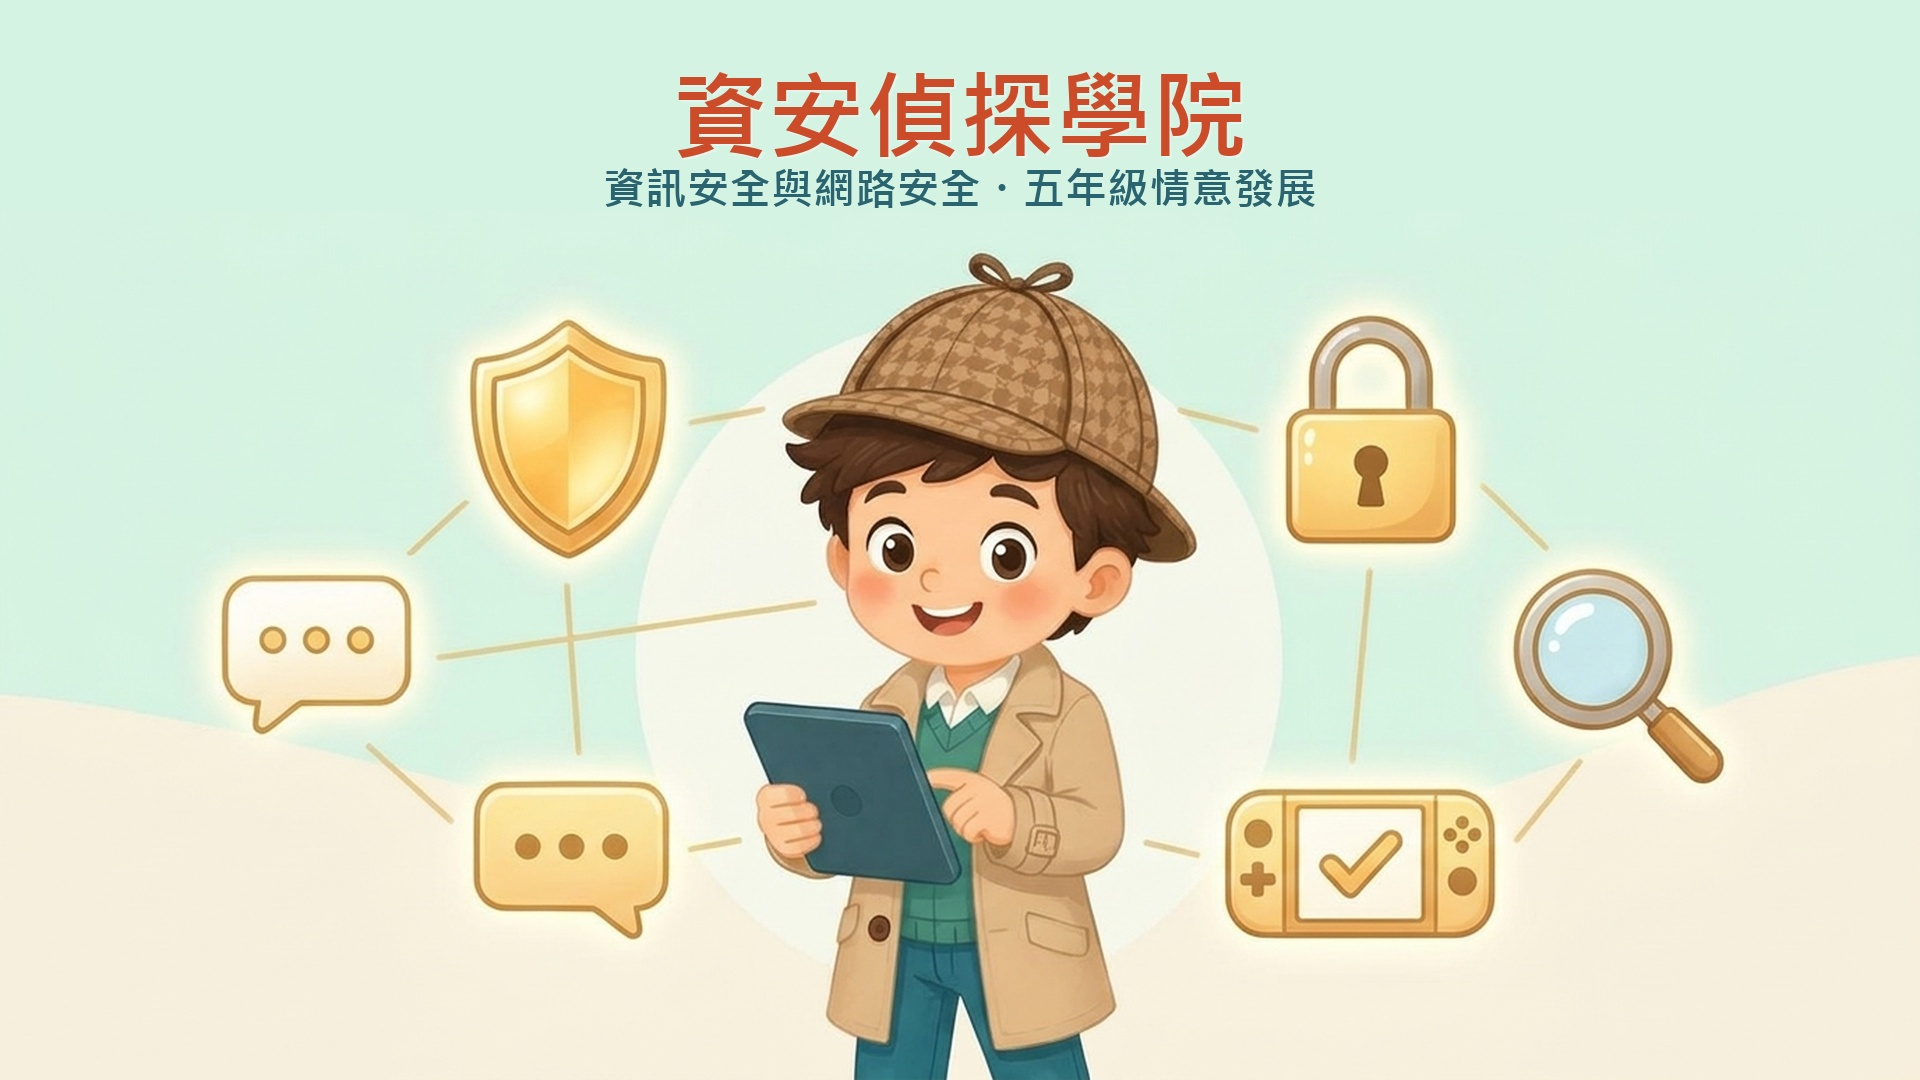
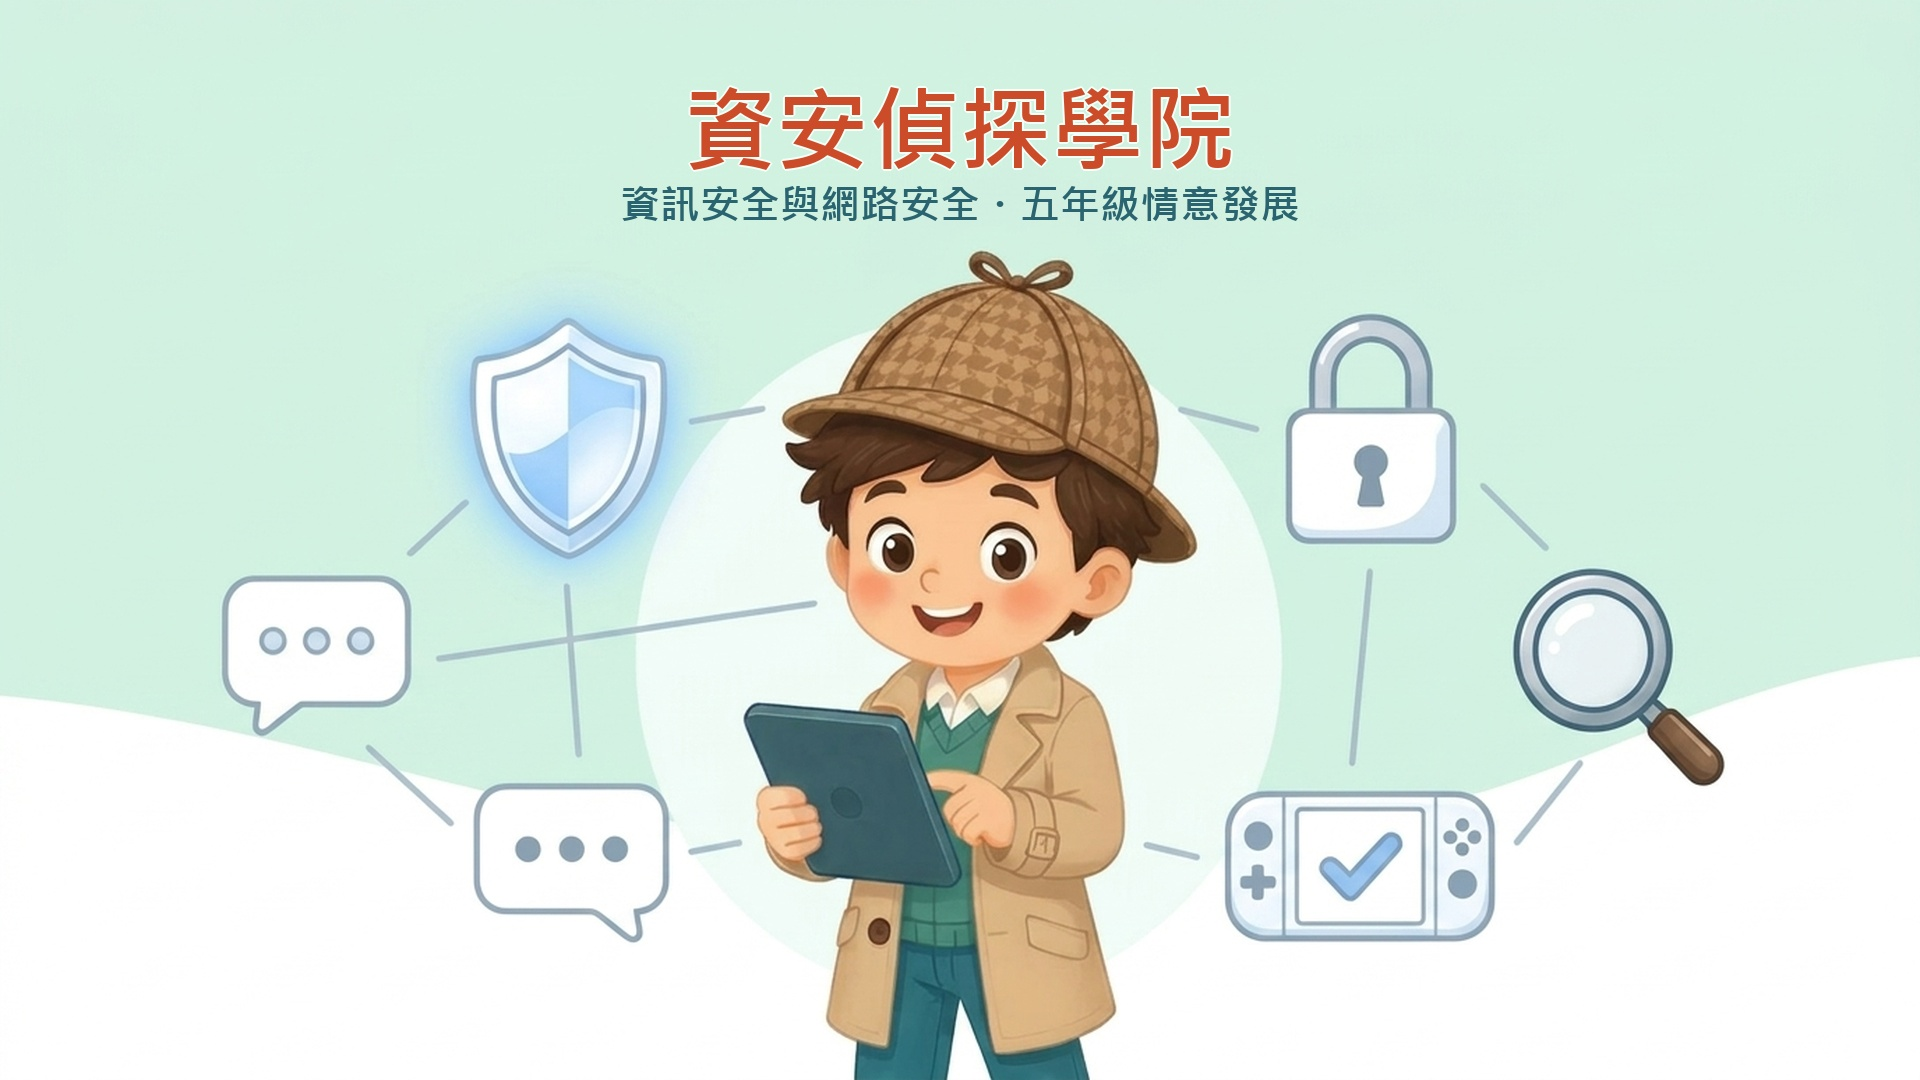
style(cover): 將開場封面黃色元素全面改為清爽純白與淡藍色主題 (cover_detective_v2.jpg)

diff --git a/units/g5-cyber-safety/index.html b/units/g5-cyber-safety/index.html
@@ -373,7 +373,7 @@
 
       intro: {
         title: '開場：歡迎來到資安偵探學院',
-        slides: ['assets/cover_detective.jpg', 'assets/intro_tools.jpg']
+        slides: ['assets/cover_detective_v2.jpg', 'assets/intro_tools.jpg']
       },
 
       sections: [
